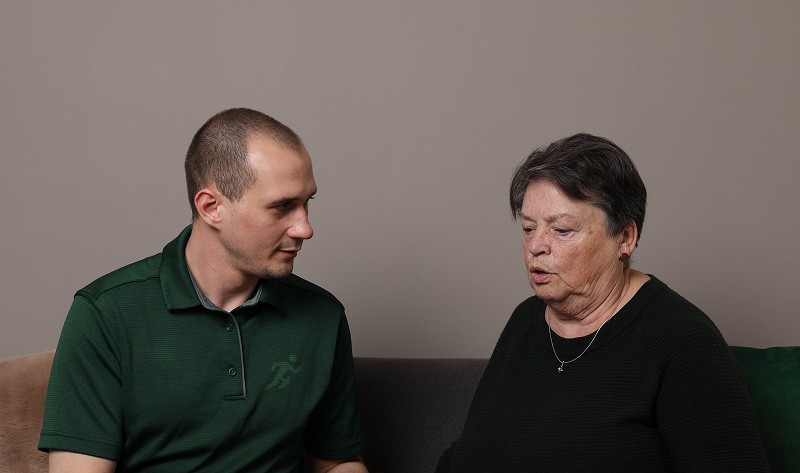
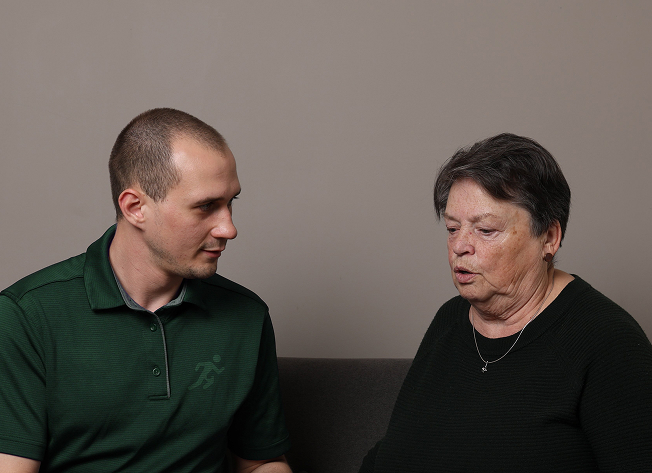
0

diff --git a/index.html b/index.html
@@ -145,7 +145,6 @@ cell[span *="-"]{grid-column-end:var(--grid-b)}
       .bottom {
         align-self: flex-end;
         position: relative;
-        top: -20px;
       }
       
       .vertical-center {
@@ -235,15 +234,14 @@ cell[span *="-"]{grid-column-end:var(--grid-b)}
     <!--<cell span="8" class="right">
       <a href="#hausbesuche" style="background:linear-gradient(180deg, transparent 60%, var(--a300) 60%);">Hausbesuche</a>  <a href="#therapiestart" style="background:linear-gradient(180deg, transparent 60%, var(--a300) 60%);">TherapieStart</a>
     </cell>-->
-    <cell span="1-2" style="margin:0;">
-      <img src="pics/Logo.svg">
+    <cell span="4-5" style="margin:0;" class="center">
+      <img src="pics/Logo.svg" style="max-width: 30vw;">
     </cell>
-    <cell span="1-6">
-      <h1 style="margin: 30px 0px 0px 0px;">Ihr Physiotherapeut für Hausbesuche
-      </h1>
+    <cell span="2-7" class="center">
+      <h1 style="margin: 30px 0px 0px 0px;">Ihr <i>Physiotherapeut</i> für Hausbesuche und individuelle Beratung</h1>
       <p>Individuelle Therapie in Ihrer gewohnten Umgebung – flexibel, persönlich und mit höchster Expertise, für mehr Komfort und optimale Betreuung.</p>
     </cell>
-    <cell span="7-8" class="right bottom">
+    <cell span="4-5" class="center">
       <a href="#kontakt" class="button">Kontakt</a>
     </cell>
     <cell span="8">
@@ -359,7 +357,7 @@ cell[span *="-"]{grid-column-end:var(--grid-b)}
       <p class="icon-text">Zu Beginn erfassen wir Ihre Beschwerden genau und definieren gemeinsam Ihre Therapieziele für eine gezielte, umfassende Behandlung vor Ort, die auf Ihre Bedürfnisse abgestimmt wird.</p>
     </cell>
     <cell span="4">
-      <img src="pics/Heimittelverornung.jpg" style="max-width: 70vw;">
+      <img src="pics/Bild_08.jpg" style="max-width: 70vw;">
     </cell>
     
     
@@ -381,7 +379,7 @@ cell[span *="-"]{grid-column-end:var(--grid-b)}
 </cell>
   
     <cell span="8" class="right">
-      <p>Copyright @ 2025 David Lelonek | <a href="#">Impressum</a> | <a href="#">Datenschutz</a>
+      <p>Copyright @ 2025 David Lelonek | <a href="#" style="background:linear-gradient(180deg, transparent 60%, var(--a300) 60%);">Impressum</a> | <a href="#" style="background:linear-gradient(180deg, transparent 60%, var(--a300) 60%);">Datenschutz</a>
       </p>
     </cell>
   </body>
